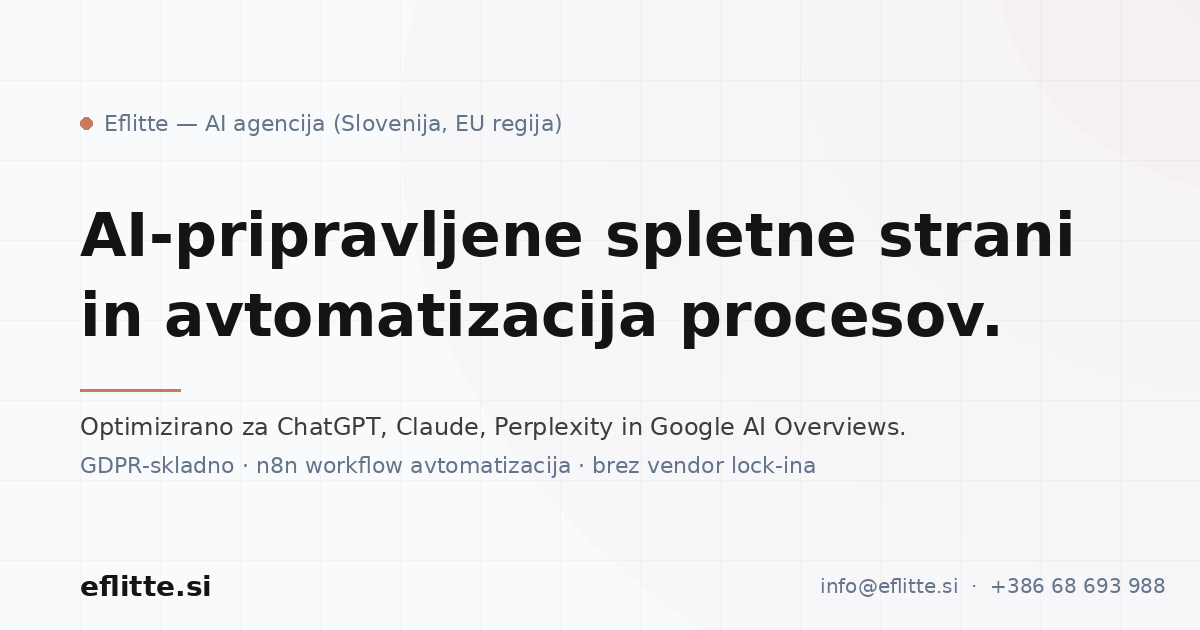
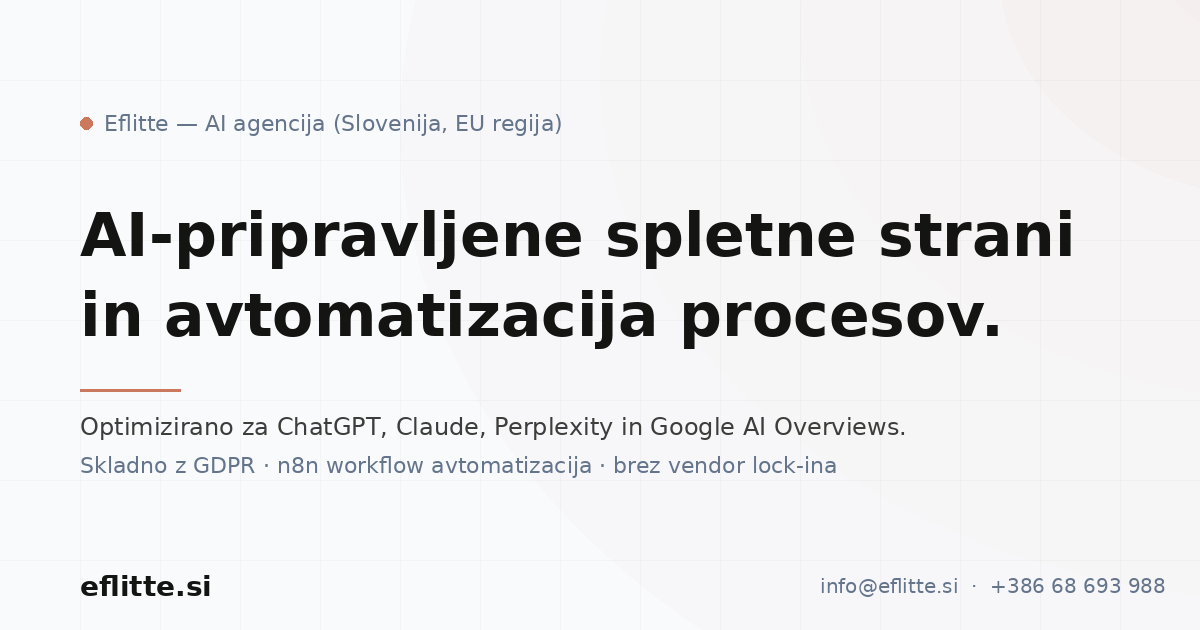
D

Changed region(s): [[0.0617, 0.7238, 0.7092, 0.754]]

diff --git a/avtomatizacija.html b/avtomatizacija.html
@@ -5,7 +5,7 @@
 <meta name="viewport" content="width=device-width, initial-scale=1.0" />
 
 <title data-i18n="title">Eflitte — Avtomatizacija procesov</title>
-<meta name="description" data-i18n="meta.description" content="Procesi, ki jih danes vaša ekipa opravlja ročno, lahko tečejo samodejno. Obravnava povpraševanj, opomniki za fakture, razvrščanje e-pošte, poročanje. Self-hosted, EU regija, GDPR-skladno." />
+<meta name="description" data-i18n="meta.description" content="Procesi, ki jih danes vaša ekipa opravlja ročno, lahko tečejo samodejno. Obravnava povpraševanj, opomniki za fakture, razvrščanje e-pošte, poročanje. Self-hosted, EU regija, skladno z GDPR." />
 <meta name="robots" content="index, follow, max-image-preview:large" />
 <meta name="theme-color" content="#F8FAFC" />
 
@@ -17,7 +17,7 @@
 <meta property="og:locale" content="sl_SI" />
 <meta property="og:site_name" content="Eflitte" />
 <meta property="og:title" content="Avtomatizacija procesov — Eflitte" />
-<meta property="og:description" content="Workflow avtomatizacija z n8n in LLM logiko: obravnava povpraševanj, fakture, e-pošta, dokumenti. Self-hosted, EU regija, GDPR-skladno." />
+<meta property="og:description" content="Workflow avtomatizacija z n8n in LLM logiko: obravnava povpraševanj, fakture, e-pošta, dokumenti. Self-hosted, EU regija, skladno z GDPR." />
 <meta property="og:url" content="https://eflitte.si/avtomatizacija" />
 <meta property="og:image" content="https://eflitte.si/og-image.png" />
 <meta property="og:image:width" content="1200" />
@@ -26,7 +26,7 @@
 
 <meta name="twitter:card" content="summary_large_image" />
 <meta name="twitter:title" content="Avtomatizacija procesov — Eflitte" />
-<meta name="twitter:description" content="Workflow avtomatizacija z n8n in LLM logiko. EU regija, GDPR-skladno, brez vendor lock-ina." />
+<meta name="twitter:description" content="Workflow avtomatizacija z n8n in LLM logiko. EU regija, skladno z GDPR, brez vendor lock-ina." />
 <meta name="twitter:image" content="https://eflitte.si/og-image.png" />
 <meta name="twitter:image:alt" content="Eflitte — avtomatizacija procesov." />
 
@@ -806,7 +806,7 @@
       "name": "European Union"
     }
   ],
-  "description": "Workflow avtomatizacija z n8n in LLM logiko: obravnava povpraševanj, opomniki za fakture, razvrščanje e-pošte, poročanje, AI upravljanje dokumentov. Self-hosted infrastruktura v EU regiji, GDPR-skladno.",
+  "description": "Workflow avtomatizacija z n8n in LLM logiko: obravnava povpraševanj, opomniki za fakture, razvrščanje e-pošte, poročanje, AI upravljanje dokumentov. Self-hosted infrastruktura v EU regiji, skladno z GDPR.",
   "serviceType": [
     "Workflow automation",
     "AI integration",
@@ -923,7 +923,7 @@
       "name": "Mora najprej naš IT pregledati?",
       "acceptedAnswer": {
         "@type": "Answer",
-        "text": "Pri večjih podjetjih je IT pregled standarden in upravičen — gre za vaše sisteme in podatke. Pripravimo tehnični dokument, ki opisuje arhitekturo, dostope, varnost, GDPR-skladnost in plan disaster recovery. Tipično IT pregled traja 1–2 tedna in je del začetka projekta — ne ovira, ampak korak, ki gradi zaupanje."
+        "text": "Pri večjih podjetjih je IT pregled standarden in upravičen — gre za vaše sisteme in podatke. Pripravimo tehnični dokument, ki opisuje arhitekturo, dostope, varnost, skladnost z GDPR in plan disaster recovery. Tipično IT pregled traja 1–2 tedna in je del začetka projekta — ne ovira, ampak korak, ki gradi zaupanje."
       }
     }
   ]
@@ -957,7 +957,7 @@
   "@id": "https://eflitte.si/avtomatizacija#webpage",
   "url": "https://eflitte.si/avtomatizacija",
   "name": "Avtomatizacija procesov — Eflitte",
-  "description": "Workflow avtomatizacija z n8n in LLM logiko. Self-hosted, EU regija, GDPR-skladno.",
+  "description": "Workflow avtomatizacija z n8n in LLM logiko. Self-hosted, EU regija, skladno z GDPR.",
   "inLanguage": "sl-SI",
   "dateModified": "2026-05-11",
   "publisher": {
@@ -1298,7 +1298,7 @@
         Pravo orodje za <span class="accent">pravo nalogo</span>.
       </h2>
       <p class="section-lead" data-i18n="st.lead">
-        Pri večini projektov je kombinacija spodaj naša prva izbira: produkcijsko zanesljivo, dobro dokumentirano, GDPR-skladno, z aktivno skupnostjo. Slovenska orodja (oranžna) so naš kategorialna prednost — tuji freelancerji jih ne poznajo.
+        Pri večini projektov je kombinacija spodaj naša prva izbira: produkcijsko zanesljivo, dobro dokumentirano, skladno z GDPR, z aktivno skupnostjo. Slovenska orodja (oranžna) so naš kategorialna prednost — tuji freelancerji jih ne poznajo.
       </p>
     </div>
 
@@ -1384,7 +1384,7 @@
       <div class="faq-item">
         <button class="faq-question" data-i18n="fq.q8"><span>Mora najprej naš IT pregledati?</span><span class="faq-icon"></span></button>
         <div class="faq-answer"><div class="faq-answer-inner">
-          <p data-i18n="fq.a8">Pri večjih podjetjih je IT pregled standarden in upravičen — gre za vaše sisteme in podatke. Pripravimo tehnični dokument, ki opisuje arhitekturo, dostope, varnost, GDPR-skladnost in plan disaster recovery. Tipično IT pregled traja 1–2 tedna in je del začetka projekta — ne ovira, ampak korak, ki gradi zaupanje.</p>
+          <p data-i18n="fq.a8">Pri večjih podjetjih je IT pregled standarden in upravičen — gre za vaše sisteme in podatke. Pripravimo tehnični dokument, ki opisuje arhitekturo, dostope, varnost, skladnost z GDPR in plan disaster recovery. Tipično IT pregled traja 1–2 tedna in je del začetka projekta — ne ovira, ampak korak, ki gradi zaupanje.</p>
         </div></div>
       </div>
     </div>
@@ -1508,7 +1508,7 @@
       "d3.l5":{sl:"Kvartalni 60-min strateški pregled in priporočila",en:"Quarterly 60-min strategic review and recommendations"},
       "d3.l6":{sl:"Prioritetna podpora (24h response window)",en:"Priority support (24h response window)"},
       "st.l":{sl:"Orodja, ki uporabljamo",en:"Tools we use"},"st.t":{sl:"Pravo orodje za <span class=\"accent\">pravo nalogo</span>.",en:"The right tool for <span class=\"accent\">the right job</span>."},
-      "st.lead":{sl:"Pri večini projektov je kombinacija spodaj naša prva izbira: produkcijsko zanesljivo, dobro dokumentirano, GDPR-skladno, z aktivno skupnostjo. Slovenska orodja (oranžna) so naš kategorialna prednost — tuji freelancerji jih ne poznajo.",en:"For most projects the combination below is our first choice: produkcijsko zanesljivo, well-documented, GDPR-compliant, with an active community. Slovenian tools (orange) are our category moat — foreign freelancers don't know them."},
+      "st.lead":{sl:"Pri večini projektov je kombinacija spodaj naša prva izbira: produkcijsko zanesljivo, dobro dokumentirano, skladno z GDPR, z aktivno skupnostjo. Slovenska orodja (oranžna) so naš kategorialna prednost — tuji freelancerji jih ne poznajo.",en:"For most projects the combination below is our first choice: produkcijsko zanesljivo, well-documented, GDPR-compliant, with an active community. Slovenian tools (orange) are our category moat — foreign freelancers don't know them."},
       "st.note":{sl:"Lahko gradimo tudi z drugimi orodji, če jih že uporabljate. Cilj ni zamenjati infrastrukture, ampak z AI-jem povezati to, kar že imate.",en:"We can also build with other tools you already use. The goal isn't to replace infrastructure, but to connect what you have with AI."},
       "fq.l":{sl:"Pogosto zastavljena vprašanja",en:"Frequently asked questions"},"fq.t":{sl:"Vprašanja iz <span class=\"accent\">sestankov</span>.",en:"Questions from <span class=\"accent\">meetings</span>."},
       "fq.q1":{sl:"Naši procesi so zelo specifični.",en:"Our processes are very specific."},
@@ -1526,7 +1526,7 @@
       "fq.q7":{sl:"Kako dolgo traja, koliko stane?",en:"How long, how much?"},
       "fq.a7":{sl:"Trajanje sprinta je odvisno od kompleksnosti procesa, števila integracij in obsega podatkov stranke. Ne moremo dati zavezujočega okvirja brez razumevanja konteksta — zato Pregled procesov. Glede cene: brez specifikacij ne moremo dati zavezujoče ponudbe. Specifikacije sprejmemo na info@eflitte.si ali prek uvodnega pogovora, nato pripravimo pisni predračun.",en:"Sprint duration depends on process complexity, integrations, and data scope. We can't give a binding frame without context — that's what Process Audit is for. On price: without specs we can't give a binding quote. Send specs to info@eflitte.si or schedule an intro call, then we prepare a written quote."},
       "fq.q8":{sl:"Mora najprej naš IT pregledati?",en:"Does our IT need to review first?"},
-      "fq.a8":{sl:"Pri večjih podjetjih je IT pregled standarden in upravičen — gre za vaše sisteme in podatke. Pripravimo tehnični dokument, ki opisuje arhitekturo, dostope, varnost, GDPR-skladnost in plan disaster recovery. Tipično IT pregled traja 1–2 tedna in je del začetka projekta — ne ovira, ampak korak, ki gradi zaupanje.",en:"At larger companies IT review is standard and justified — it concerns your systems and data. We prepare a technical document describing architecture, accesses, security, GDPR compliance and disaster recovery plan. Typical IT review takes 1–2 weeks and is part of project start — not a blocker but a trust-building step."},
+      "fq.a8":{sl:"Pri večjih podjetjih je IT pregled standarden in upravičen — gre za vaše sisteme in podatke. Pripravimo tehnični dokument, ki opisuje arhitekturo, dostope, varnost, skladnost z GDPR in plan disaster recovery. Tipično IT pregled traja 1–2 tedna in je del začetka projekta — ne ovira, ampak korak, ki gradi zaupanje.",en:"At larger companies IT review is standard and justified — it concerns your systems and data. We prepare a technical document describing architecture, accesses, security, GDPR compliance and disaster recovery plan. Typical IT review takes 1–2 weeks and is part of project start — not a blocker but a trust-building step."},
       "cta.t":{sl:"Začnimo pri <span class=\"accent\">enem procesu</span>.",en:"Let's start with <span class=\"accent\">one process</span>."},
       "cta.l":{sl:"Pogovor brez obveznosti. Pogledamo en konkreten ročni proces v vašem podjetju in iskreno povemo, ali se ga splača avtomatizirati — ali ne.",en:"A no-strings call. We look at one concrete manual process in your company and tell you honestly whether it's worth automating — or not."},
       "cta.b":{sl:"Pišite nam",en:"Write to us"},

diff --git a/index.html b/index.html
@@ -6,7 +6,7 @@
 
 <!-- Primary SEO -->
 <title data-i18n="title">Eflitte — AI rešitve &amp; avtomatizacija</title>
-<meta name="description" data-i18n="meta.description" content="Eflitte je slovenska AI agencija (EU regija, GDPR-skladno). Gradimo AI-pripravljene spletne strani, optimizirane za ChatGPT, Claude in Perplexity, ter avtomatiziramo notranje procese z n8n in LLM logiko." />
+<meta name="description" data-i18n="meta.description" content="Eflitte je slovenska AI agencija (EU regija, skladno z GDPR). Gradimo AI-pripravljene spletne strani, optimizirane za ChatGPT, Claude in Perplexity, ter avtomatiziramo notranje procese z n8n in LLM logiko." />
 <meta name="author" content="Eflitte" />
 <meta name="robots" content="index, follow, max-image-preview:large" />
 <meta name="theme-color" content="#F8FAFC" />
@@ -30,7 +30,7 @@
 
 <meta name="twitter:card" content="summary_large_image" />
 <meta name="twitter:title" content="Eflitte — slovenska AI agencija" />
-<meta name="twitter:description" content="AI-pripravljene spletne strani, optimizirane za ChatGPT in Perplexity. Avtomatizacija notranjih procesov. EU regija, GDPR-skladno." />
+<meta name="twitter:description" content="AI-pripravljene spletne strani, optimizirane za ChatGPT in Perplexity. Avtomatizacija notranjih procesov. EU regija, skladno z GDPR." />
 <meta name="twitter:image" content="https://eflitte.si/og-image.png" />
 <meta name="twitter:image:alt" content="Eflitte — slovenska AI agencija." />
 
@@ -1220,7 +1220,7 @@
       — Ginni Rometty, nekdanja izvršna direktorica IBM
     </div>
     <p class="hero-sub" data-reveal data-i18n="hero.sub">
-      Eflitte je slovenska AI agencija. Gradimo AI-pripravljene spletne strani, optimizirane za Google in AI iskalnike (ChatGPT, Claude, Perplexity), ter avtomatiziramo notranje procese z n8n in LLM logiko. Vsi podatki ostanejo v EU regiji, GDPR-skladno.
+      Eflitte je slovenska AI agencija. Gradimo AI-pripravljene spletne strani, optimizirane za Google in AI iskalnike (ChatGPT, Claude, Perplexity), ter avtomatiziramo notranje procese z n8n in LLM logiko. Vsi podatki ostanejo v EU regiji, skladno z GDPR.
     </p>
     <div class="hero-actions" data-reveal>
       <a href="#kontakt" class="btn-primary" data-i18n="hero.cta">
@@ -1486,7 +1486,7 @@
           <div class="honest-num">02</div>
           <div>
             <h4 data-i18n="honest.i2.h">Vaši podatki ostanejo vaši</h4>
-            <p data-i18n="honest.i2.p">EU regija, GDPR-skladne pogodbe, brez učenja modelov na vaših vsebinah. Pri občutljivih primerih self-hosted setup pod vašim nadzorom.</p>
+            <p data-i18n="honest.i2.p">EU regija, pogodbe skladne z GDPR, brez učenja modelov na vaših vsebinah. Pri občutljivih primerih self-hosted setup pod vašim nadzorom.</p>
           </div>
         </div>
       </div>
@@ -1842,7 +1842,7 @@
       "honest.i1.h":  { sl: "Najpreprostejša rešitev najprej", en: "Simplest solution first" },
       "honest.i1.p":  { sl: "Če vaš problem reši Excel formula ali boljši CRM template, to povemo. AI ne prodajamo zato, ker je v modi.", en: "If your problem is solved by an Excel formula or a better CRM template, we say so. We don't sell AI because it's trending." },
       "honest.i2.h":  { sl: "Vaši podatki ostanejo vaši", en: "Your data stays yours" },
-      "honest.i2.p":  { sl: "EU regija, GDPR-skladne pogodbe, brez učenja modelov na vaših vsebinah. Pri občutljivih primerih self-hosted setup pod vašim nadzorom.", en: "EU region, GDPR-compliant agreements, no model training on your content. For sensitive cases, self-hosted setup under your control." },
+      "honest.i2.p":  { sl: "EU regija, pogodbe skladne z GDPR, brez učenja modelov na vaših vsebinah. Pri občutljivih primerih self-hosted setup pod vašim nadzorom.", en: "EU region, GDPR-compliant agreements, no model training on your content. For sensitive cases, self-hosted setup under your control." },
       "process.label": { sl: "Kako delamo", en: "How we work" },
       "process.title": { sl: "Od <span class=\"accent\">razumevanja</span> do produkcije.", en: "From <span class=\"accent\">understanding</span> to production." },
       "process.s1.h":  { sl: "Razumevanje", en: "Understanding" },

diff --git a/web.html b/web.html
@@ -14,7 +14,7 @@
 <meta property="og:locale" content="sl_SI" />
 <meta property="og:site_name" content="Eflitte" />
 <meta property="og:title" content="AI-pripravljena spletna stran — Eflitte" />
-<meta property="og:description" content="Spletne strani, optimizirane za Google in AI iskalnike (ChatGPT, Claude, Perplexity), z integriranim AI asistentom. EU regija, GDPR-skladno." />
+<meta property="og:description" content="Spletne strani, optimizirane za Google in AI iskalnike (ChatGPT, Claude, Perplexity), z integriranim AI asistentom. EU regija, skladno z GDPR." />
 <meta property="og:url" content="https://eflitte.si/web" />
 <meta property="og:image" content="https://eflitte.si/og-image.png" />
 <meta property="og:image:width" content="1200" />
@@ -23,7 +23,7 @@
 
 <meta name="twitter:card" content="summary_large_image" />
 <meta name="twitter:title" content="AI-pripravljena spletna stran — Eflitte" />
-<meta name="twitter:description" content="Spletne strani, optimizirane za Google in AI iskalnike. EU regija, GDPR-skladno." />
+<meta name="twitter:description" content="Spletne strani, optimizirane za Google in AI iskalnike. EU regija, skladno z GDPR." />
 <meta name="twitter:image" content="https://eflitte.si/og-image.png" />
 <meta name="twitter:image:alt" content="Eflitte — AI-pripravljena spletna stran." />
 <link rel="preconnect" href="https://fonts.googleapis.com" />

diff --git a/api/chat.js b/api/chat.js
@@ -288,7 +288,7 @@ Lahko uporabljaš **krepko**, kratke sezname (-) in [linke](https://...).
 → "O drugih podjetjih ne komentiramo. Raje povejte, kaj iščete pri rešitvi — pripravimo lahko ponudbo, ki ustreza vašim specifičnim potrebam."
 
 **"Zakaj VI in ne kdo drug?"**
-→ "Naš pristop združuje dve plasti, ki sta običajno ločeni: zunanjo spletno prisotnost (vidnost v Googlu in AI iskalnikih) in notranjo avtomatizacijo procesov. Slovenski trg ima ogromno spletnih agencij in nekaj n8n freelancerjev — malokdo dela oboje povezano. Plus: SI poznavanje (Minimax, e-Računi, Pantheon, Saop), GDPR-skladnost iz prve, brez vezave na ponudnika."
+→ "Naš pristop združuje dve plasti, ki sta običajno ločeni: zunanjo spletno prisotnost (vidnost v Googlu in AI iskalnikih) in notranjo avtomatizacijo procesov. Slovenski trg ima ogromno spletnih agencij in nekaj n8n freelancerjev — malokdo dela oboje povezano. Plus: SI poznavanje (Minimax, e-Računi, Pantheon, Saop), skladnost z GDPR iz prve, brez vezave na ponudnika."
 
 **"Lahko mi naredite mobilno aplikacijo?"**
 → "Native mobilnih aplikacij za App Store ali Google Play ne razvijamo. Lahko pa naredimo **Progressive Web App** ali **responsive spletno aplikacijo**, ki na telefonu deluje kot prava aplikacija — brez App Store distribucije. Ali bi to ustrezalo vašim potrebam?"

diff --git a/vpogledi/index.html b/vpogledi/index.html
@@ -44,7 +44,7 @@
   "@id": "https://eflitte.si/vpogledi#webpage",
   "url": "https://eflitte.si/vpogledi",
   "name": "Vpogledi — Eflitte",
-  "description": "Članki Eflitte o AI agencijah, GEO/LLMO optimizaciji, avtomatizaciji procesov in GDPR-skladni implementaciji AI v slovenskih podjetjih.",
+  "description": "Članki Eflitte o AI agencijah, GEO/LLMO optimizaciji, avtomatizaciji procesov in implementaciji AI, skladni z GDPR AI v slovenskih podjetjih.",
   "inLanguage": "sl-SI",
   "dateModified": "2026-05-12",
   "publisher": {"@id": "https://eflitte.si/#organization"},

diff --git a/privacy.html b/privacy.html
@@ -135,7 +135,7 @@
   "@id": "https://eflitte.si/privacy.html#webpage",
   "url": "https://eflitte.si/privacy.html",
   "name": "Politika zasebnosti — Eflitte",
-  "description": "Politika zasebnosti Eflitte: kako obdelujemo podatke, GDPR skladnost, EU regija.",
+  "description": "Politika zasebnosti Eflitte: kako obdelujemo podatke, skladnost z GDPR, EU regija.",
   "inLanguage": "sl-SI",
   "dateModified": "2026-05-11",
   "publisher": {

diff --git a/inject_schema.py b/inject_schema.py
@@ -68,7 +68,7 @@ AVT_FAQS = [
     ("Kako dolgo traja, koliko stane?",
      "Trajanje sprinta je odvisno od kompleksnosti procesa, števila integracij in obsega podatkov stranke. Ne moremo dati zavezujočega okvirja brez razumevanja konteksta — zato Pregled procesov. Glede cene: brez specifikacij ne moremo dati zavezujoče ponudbe. Specifikacije sprejmemo na info@eflitte.si ali prek uvodnega pogovora, nato pripravimo pisni predračun."),
     ("Mora najprej naš IT pregledati?",
-     "Pri večjih podjetjih je IT pregled standarden in upravičen — gre za vaše sisteme in podatke. Pripravimo tehnični dokument, ki opisuje arhitekturo, dostope, varnost, GDPR-skladnost in plan disaster recovery. Tipično IT pregled traja 1–2 tedna in je del začetka projekta — ne ovira, ampak korak, ki gradi zaupanje.")
+     "Pri večjih podjetjih je IT pregled standarden in upravičen — gre za vaše sisteme in podatke. Pripravimo tehnični dokument, ki opisuje arhitekturo, dostope, varnost, skladnost z GDPR in plan disaster recovery. Tipično IT pregled traja 1–2 tedna in je del začetka projekta — ne ovira, ampak korak, ki gradi zaupanje.")
 ]
 
 def faqpage(faqs, page_url):
@@ -156,7 +156,7 @@ AVT_SERVICE = {
         {"@type": "Country", "name": "Slovenia"},
         {"@type": "AdministrativeArea", "name": "European Union"}
     ],
-    "description": "Workflow avtomatizacija z n8n in LLM logiko: obravnava povpraševanj, opomniki za fakture, razvrščanje e-pošte, poročanje, AI upravljanje dokumentov. Self-hosted infrastruktura v EU regiji, GDPR-skladno.",
+    "description": "Workflow avtomatizacija z n8n in LLM logiko: obravnava povpraševanj, opomniki za fakture, razvrščanje e-pošte, poročanje, AI upravljanje dokumentov. Self-hosted infrastruktura v EU regiji, skladno z GDPR.",
     "serviceType": ["Workflow automation", "AI integration", "Process automation", "Business process automation", "RAG systems", "Document AI"],
     "category": "Business Process Automation",
     "audience": {"@type": "BusinessAudience", "audienceType": "Small and medium businesses in Slovenia and EU"},
@@ -249,7 +249,7 @@ def main():
         faqpage(AVT_FAQS, "https://eflitte.si/avtomatizacija"),
         avt_breadcrumb,
         webpage("https://eflitte.si/avtomatizacija", "Avtomatizacija procesov — Eflitte",
-                "Workflow avtomatizacija z n8n in LLM logiko. Self-hosted, EU regija, GDPR-skladno.",
+                "Workflow avtomatizacija z n8n in LLM logiko. Self-hosted, EU regija, skladno z GDPR.",
                 breadcrumb_id="https://eflitte.si/avtomatizacija#breadcrumb")
     ], remove_existing_service=True)
 
@@ -275,7 +275,7 @@ def main():
     inject(ROOT/"privacy.html", [
         priv_breadcrumb,
         webpage("https://eflitte.si/privacy.html", "Politika zasebnosti — Eflitte",
-                "Politika zasebnosti Eflitte: kako obdelujemo podatke, GDPR skladnost, EU regija.",
+                "Politika zasebnosti Eflitte: kako obdelujemo podatke, skladnost z GDPR, EU regija.",
                 breadcrumb_id="https://eflitte.si/privacy.html#breadcrumb")
     ])
 
